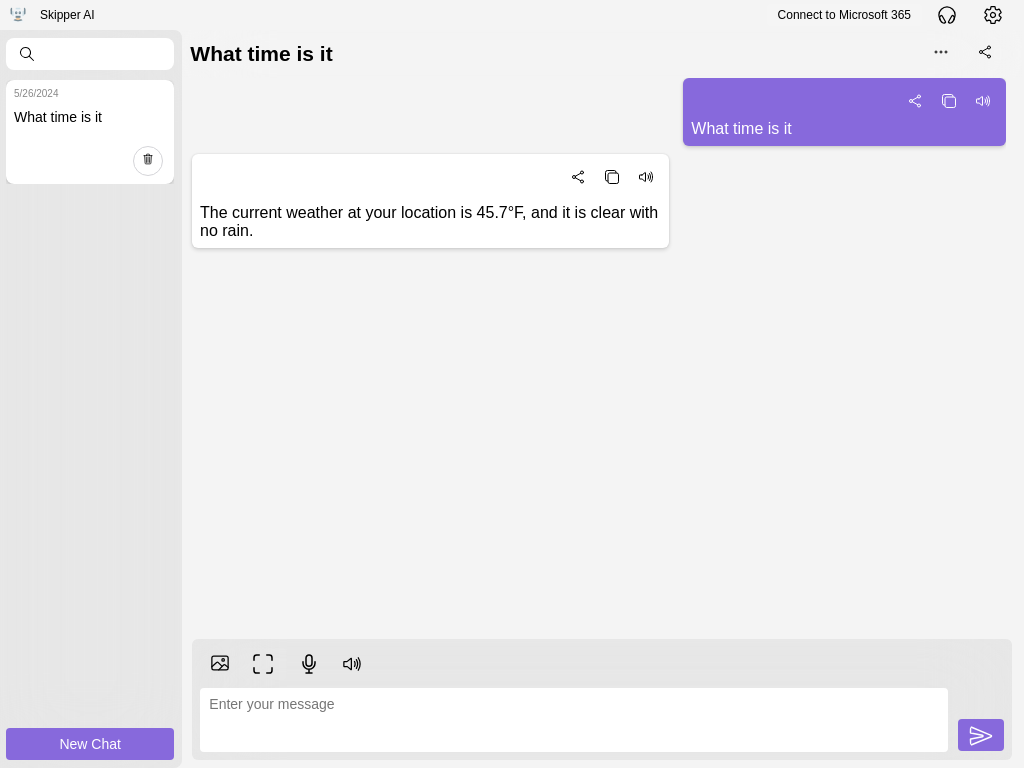
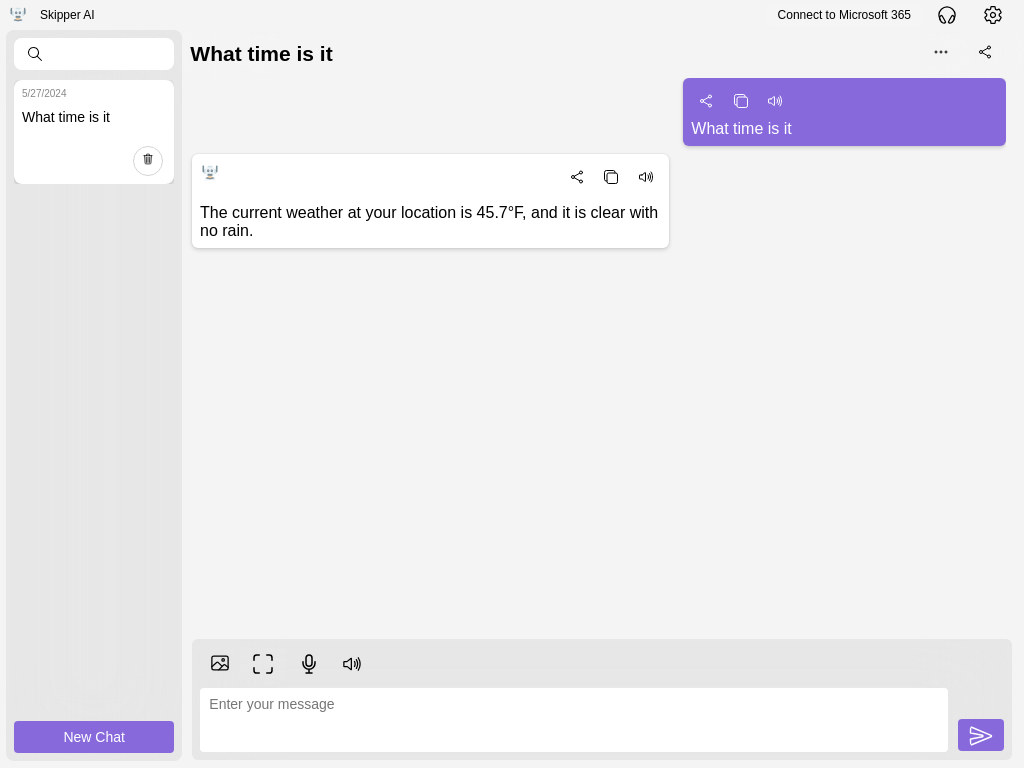
design updates to simplify

diff --git a/src/pages/app-home.ts b/src/pages/app-home.ts
@@ -240,6 +240,12 @@ export class AppHome extends LitElement {
           margin-top: 8px;
         }
 
+        .assistant .item-toolbar .robot-icon {
+          /* height: 16px; */
+          width: 20px;
+          margin-bottom: 8px;
+        }
+
         #suggested li {
           display: flex;
           align-items: center;
@@ -249,7 +255,7 @@ export class AppHome extends LitElement {
           font-size: 16px;
           cursor: pointer;
 
-          padding: 16px;
+          padding: 10px;
           min-height: 50px;
           max-width: 128px;
         }
@@ -436,7 +442,7 @@ export class AppHome extends LitElement {
 
         .item-toolbar {
           display: flex;
-          justify-content: flex-end;
+          justify-content: space-between;
           align-items: center;
           padding-bottom: 4px;
           display: flex;
@@ -834,6 +840,10 @@ export class AppHome extends LitElement {
           display: none;
         }
 
+        #suggested fluent-button::part(control) {
+          background: #ffffff0f;
+        }
+
         @media(min-width: 860px) {
           #convo-name {
             left: 20vw;
@@ -848,12 +858,20 @@ export class AppHome extends LitElement {
 
             display: flex;
             flex-direction: row;
-            width: 68vw;
+            width: 70vw;
+
+            gap: 8px;
+
+            margin: 0;
+            padding: 0;
+            margin-bottom: -15px;
           }
 
           #suggested li {
             animation: quickup 0.3s ease;
-            min-width: 127px;
+            min-width: max-content;
+            min-height: fit-content;
+            font-size: 14px;
           }
 
           #now {
@@ -865,7 +883,7 @@ export class AppHome extends LitElement {
           }
 
           #no-messages {
-            margin-top: 10vh;
+            margin-top: 12vh;
           }
 
           li.user, li.system, li.assistant {
@@ -965,6 +983,12 @@ export class AppHome extends LitElement {
 
           #suggested, #now {
             width: 82%;
+          }
+
+          #suggested {
+            margin-bottom: 52px;
+            width: 100%;
+            max-height: 20vh;
           }
 
           #open-camera-button {
@@ -2204,6 +2228,8 @@ export class AppHome extends LitElement {
           ${this.previousMessages.map((message) => {
           return html`<li class="${message.role}">
             <div class="item-toolbar">
+                ${message.role === "assistant" ? html`<img class="robot-icon" src="/assets/icons/64-icon.png" />` : null}
+                <div>
                 <sl-button @click="${() => this.shareButton(message.content)}" circle size="small" class="copy-button">
                   <img src="/assets/share-social-outline.svg" alt="share" />
                 </sl-button>
@@ -2215,6 +2241,7 @@ export class AppHome extends LitElement {
                 <sl-button @click="${() => this.speakIt(message.content)}" circle size="small" class="copy-button">
                   <img src="/assets/volume-high-outline.svg" alt="copy" />
                 </sl-button>
+                </div>
             </div>
 
             <div class="content-bar" @click="${() => this.openInViewer(message.content)}">
@@ -2232,7 +2259,7 @@ export class AppHome extends LitElement {
             <img src="/assets/icons/maskable_icon_x512.png" alt="chat" />
             <p id="greeting-text">Hello! How may I help you today?</p>
 
-            <ul id="suggested">
+            <!-- <ul id="suggested">
               ${this.modelShipper === "openai" ? html`<li @click="${() => this.preDefinedChat("What is the weather like?")}">What is the weather like?</li>` : null}
               ${this.modelShipper === "openai" ? html`<li @click="${() => this.preDefinedChat("Give me the latest news")}">Give me the latest news</li>` : null}
               ${this.modelShipper === "openai" ? html`<li @click="${() => this.preDefinedChat("Write some JavaScript code to make a request to an api")}">Write some JavaScript code to make a request to an api</li>` : null}
@@ -2245,17 +2272,39 @@ export class AppHome extends LitElement {
                 ` : null
         }
               ${this.modelShipper === "openai" ? html`<li @click="${() => this.preDefinedChat("Generate an image of a Unicorn")}">Generate an image of a Unicorn</li>` : null}
+              ${this.quickActions.map((action: any) => {
+          return html`<li @click="${() => this.preDefinedChat(action)}">${action}</li>`
+        })
+        }
+              <li @click="${() => this.preDefinedChat("Write some JavaScript code to make a request to an api")}">Write some JavaScript code to make a request to an api</li>
+              <li @click="${() => this.preDefinedChat("Give me a recipe for a chocolate cake")}">Give me a recipe for a chocolate cake</li>
+            </ul> -->
+          </div>
+       `}
+
+       <div id="input-block">
+       ${this.previousMessages.length === 0 ? html`<ul id="suggested">
+              ${this.modelShipper === "openai" ? html`<li @click="${() => this.preDefinedChat("What is the weather like?")}">What is the weather like?</li>` : null}
+              ${this.modelShipper === "openai" ? html`<li @click="${() => this.preDefinedChat("Give me the latest news")}">Give me the latest news</li>` : null}
+              ${this.modelShipper === "openai" ? html`<li @click="${() => this.preDefinedChat("Write some JavaScript code to make a request to an api")}">Write some JavaScript code to make a request to an api</li>` : null}
+              ${this.modelShipper === "openai" ? html`<li @click="${() => this.preDefinedChat("Generate an image of a Unicorn")}">Generate an image of a Unicorn</li>` : null}
+              ${this.authToken && this.authToken.length > 0 && this.modelShipper === "openai" ? html`
+                  <li @click="${() => this.preDefinedChat("What is my latest email?")}">What is my latest email?</li>
+                  <li @click="${() => this.preDefinedChat("Send an email")}">Send an email</li>
+                  <li @click="${() => this.preDefinedChat("Search my email")}">Search my email</li>
+                  <li @click="${() => this.preDefinedChat("Get my todos")}">Get my todos</li>
+                  <li @click="${() => this.preDefinedChat("Set a todo")}">Set a todo</li>
+                ` : null
+        }
+              <!-- ${this.modelShipper === "openai" ? html`<li @click="${() => this.preDefinedChat("Generate an image of a Unicorn")}">Generate an image of a Unicorn</li>` : null} -->
               <!-- ${this.quickActions.map((action: any) => {
           return html`<li @click="${() => this.preDefinedChat(action)}">${action}</li>`
         })
         } -->
               <!-- <li @click="${() => this.preDefinedChat("Write some JavaScript code to make a request to an api")}">Write some JavaScript code to make a request to an api</li>
               <li @click="${() => this.preDefinedChat("Give me a recipe for a chocolate cake")}">Give me a recipe for a chocolate cake</li> -->
-            </ul>
-          </div>
-       `}
+            </ul>` : null}
 
-       <div id="input-block">
         <div id="extra-actions">
           <div id="inner-extra-actions">
           ${this.modelShipper === "openai" || this.modelShipper === "google" ? html`<fluent-button @click="${() => this.addImageToConvo()}" id="add-image-to-convo" size="small">

diff --git a/src/pages/app-voice.ts b/src/pages/app-voice.ts
@@ -611,6 +611,7 @@ export class AppVoice extends LitElement {
   async stop() {
     await this.recog.stopContinuousRecognitionAsync();
     this.loading = false;
+    this.recog = null;
 
     if (this.currentAudioEl) {
       this.currentAudioEl.pause();
